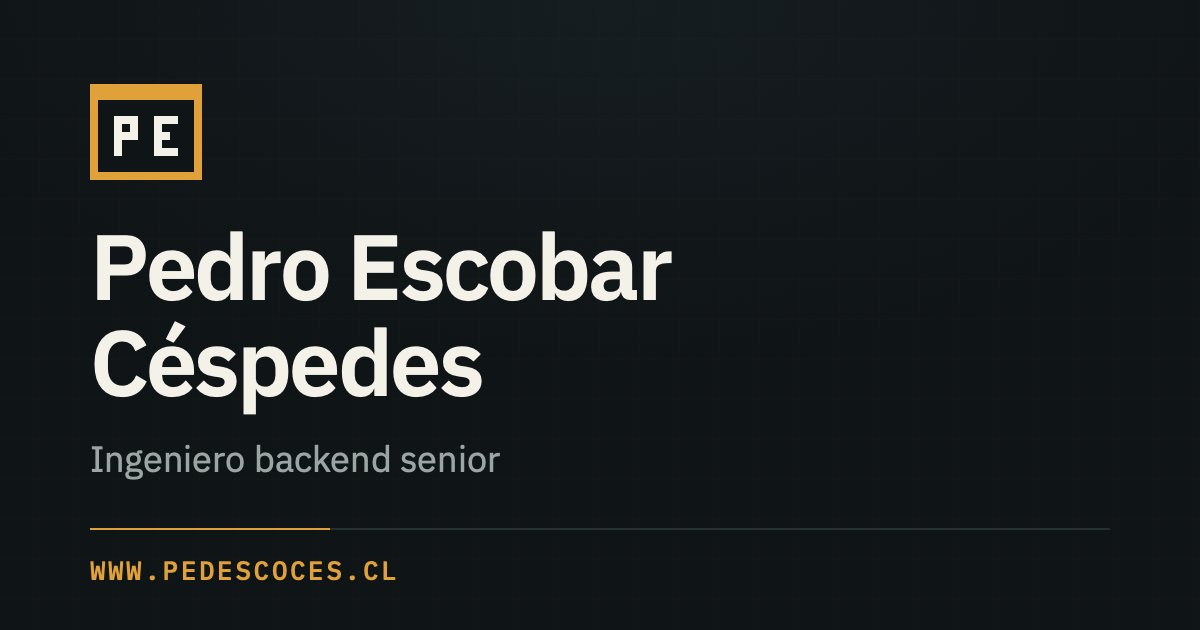
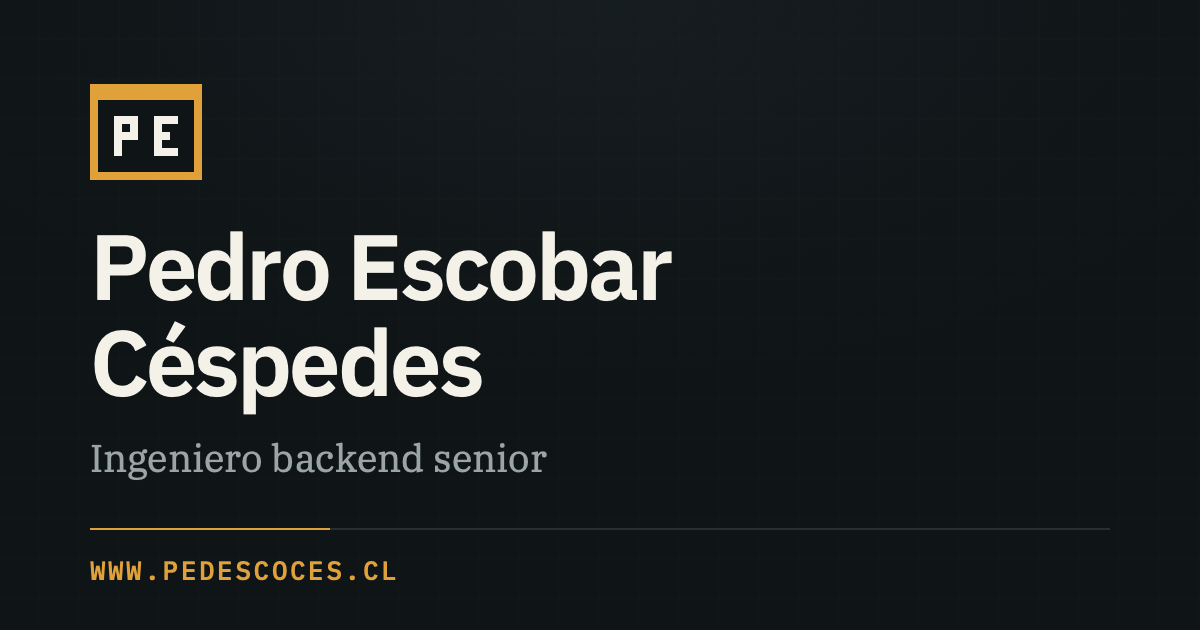
style: pasar la bajada del og:image a IBM Plex Serif
Replica en la tarjeta el mismo reparto tipográfico del sitio: Sans en el
nombre, Serif en la bajada como el .lede y Mono en el dominio. Antes iba en
Sans porque la familia serif no estaba instalada al generarla.

Changed region(s): [[0.0617, 0.6937, 0.4625, 0.7841]]

diff --git a/README.md b/README.md
@@ -54,8 +54,8 @@ qlmanage -t -s 1200 -o . og.svg
 sips -c 630 1200 og.svg.png --out og.png && rm og.svg.png
 ```
 
-Requiere las tipografías IBM Plex Sans y Mono instaladas localmente
-(`brew install --cask font-ibm-plex-sans font-ibm-plex-mono`).
+Requiere las tres tipografías instaladas localmente:
+`brew install --cask font-ibm-plex-sans font-ibm-plex-serif font-ibm-plex-mono`.
 
 ## Decisiones de diseño
 
@@ -71,9 +71,10 @@ Requiere las tipografías IBM Plex Sans y Mono instaladas localmente
   dibujadas como rectángulos, no como texto, para no depender de tipografías del sistema.
   Todas las coordenadas del `viewBox` de 32 son pares: así, al rasterizar a 16 px, cada
   unidad cae en un píxel entero y los trazos no se emborronan.
-- **Previsualización al compartir.** `og.png` reusa la paleta y el ícono, con el nombre en
-  Plex Sans 600 igual que el `h1`. Las etiquetas `og:image` apuntan a una URL absoluta,
-  porque el scraper que la lee no tiene la página como contexto.
+- **Previsualización al compartir.** `og.png` reusa la paleta, el ícono y el mismo reparto
+  tipográfico del sitio: Sans en el nombre, Serif en la bajada y Mono en el dominio. Las
+  etiquetas `og:image` apuntan a una URL absoluta, porque el scraper que la lee no tiene
+  la página como contexto.
 - **Accesibilidad.** HTML semántico, `aria-label` en las secciones, foco visible y respeto
   por `prefers-reduced-motion`.
 
